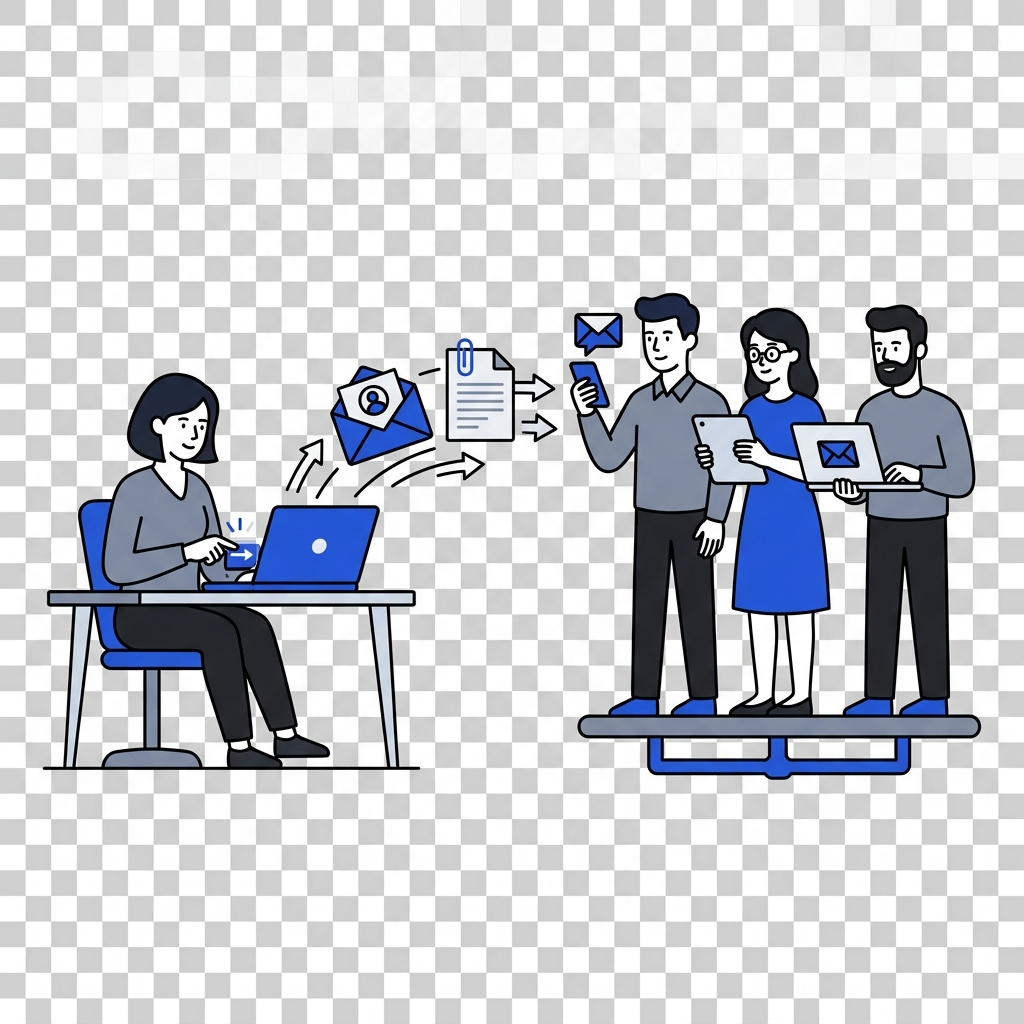
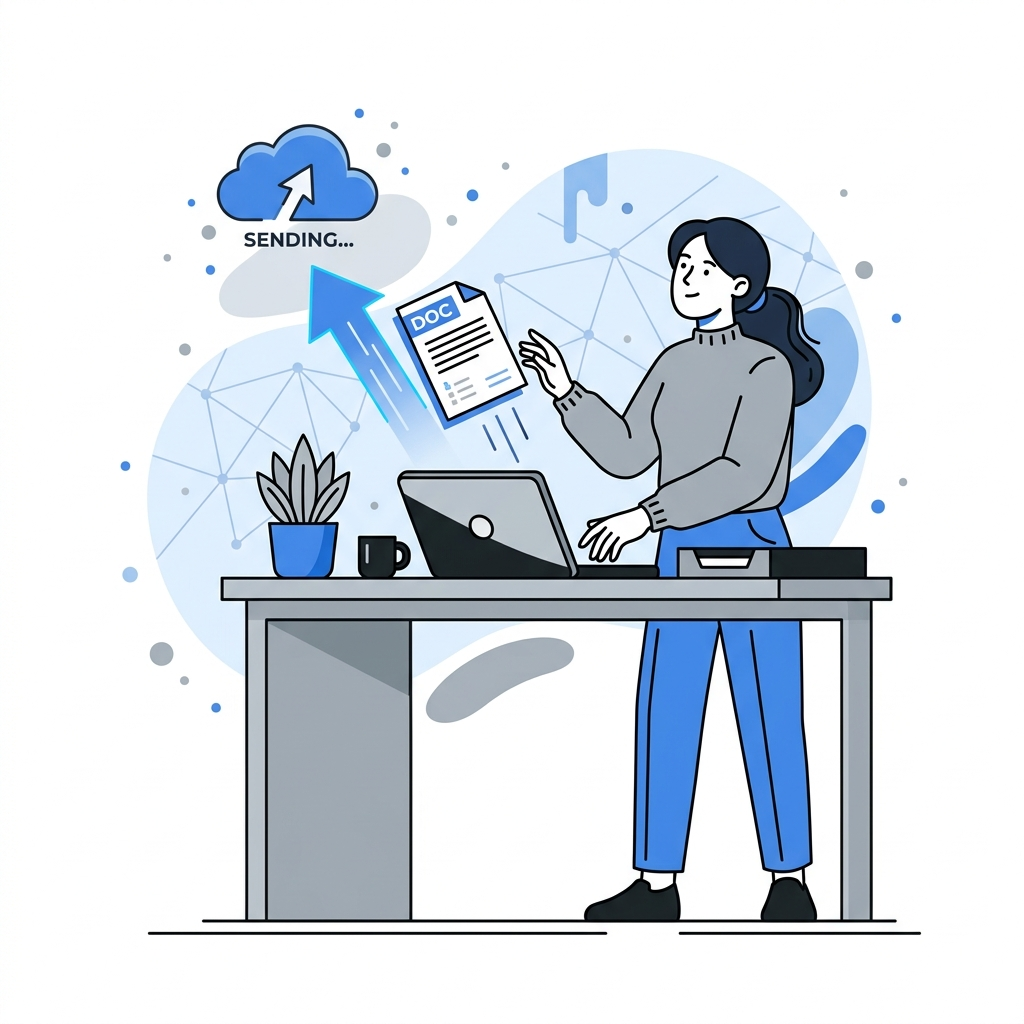
style: reduce onboarding card roundedness to 8px and shorten subline descriptions

diff --git a/src/components/pdf-editor/SignEditor.tsx b/src/components/pdf-editor/SignEditor.tsx
@@ -2567,7 +2567,7 @@ export function SignEditor({ file, onClose, onSave }: SignEditorProps) {
                             flexDirection: "column",
                             alignItems: "stretch",
                             border: "1.5px solid #e2e8f0",
-                            borderRadius: "12px",
+                            borderRadius: "8px",
                             cursor: "pointer",
                             transition: "all 0.2s ease-in-out",
                             backgroundColor: "#ffffff",
@@ -2607,7 +2607,7 @@ export function SignEditor({ file, onClose, onSave }: SignEditorProps) {
                               Sign myself
                             </h3>
                             <p style={{ fontSize: "0.78rem", color: "#64748b", margin: 0, lineHeight: "1.45" }}>
-                              I want to place my own signatures, text, dates, or checkboxes on the document.
+                              I want to place my own signatures, text, dates, or checkboxes.
                             </p>
                           </div>
                         </div>
@@ -2620,7 +2620,7 @@ export function SignEditor({ file, onClose, onSave }: SignEditorProps) {
                             flexDirection: "column",
                             alignItems: "stretch",
                             border: "1.5px solid #e2e8f0",
-                            borderRadius: "12px",
+                            borderRadius: "8px",
                             cursor: "pointer",
                             transition: "all 0.2s ease-in-out",
                             backgroundColor: "#ffffff",
@@ -2660,7 +2660,7 @@ export function SignEditor({ file, onClose, onSave }: SignEditorProps) {
                               Get signatures from others
                             </h3>
                             <p style={{ fontSize: "0.78rem", color: "#64748b", margin: 0, lineHeight: "1.45" }}>
-                              Send email invitation requests to other users to review and sign this document.
+                              Send invitation requests to other users to sign via email.
                             </p>
                           </div>
                         </div>